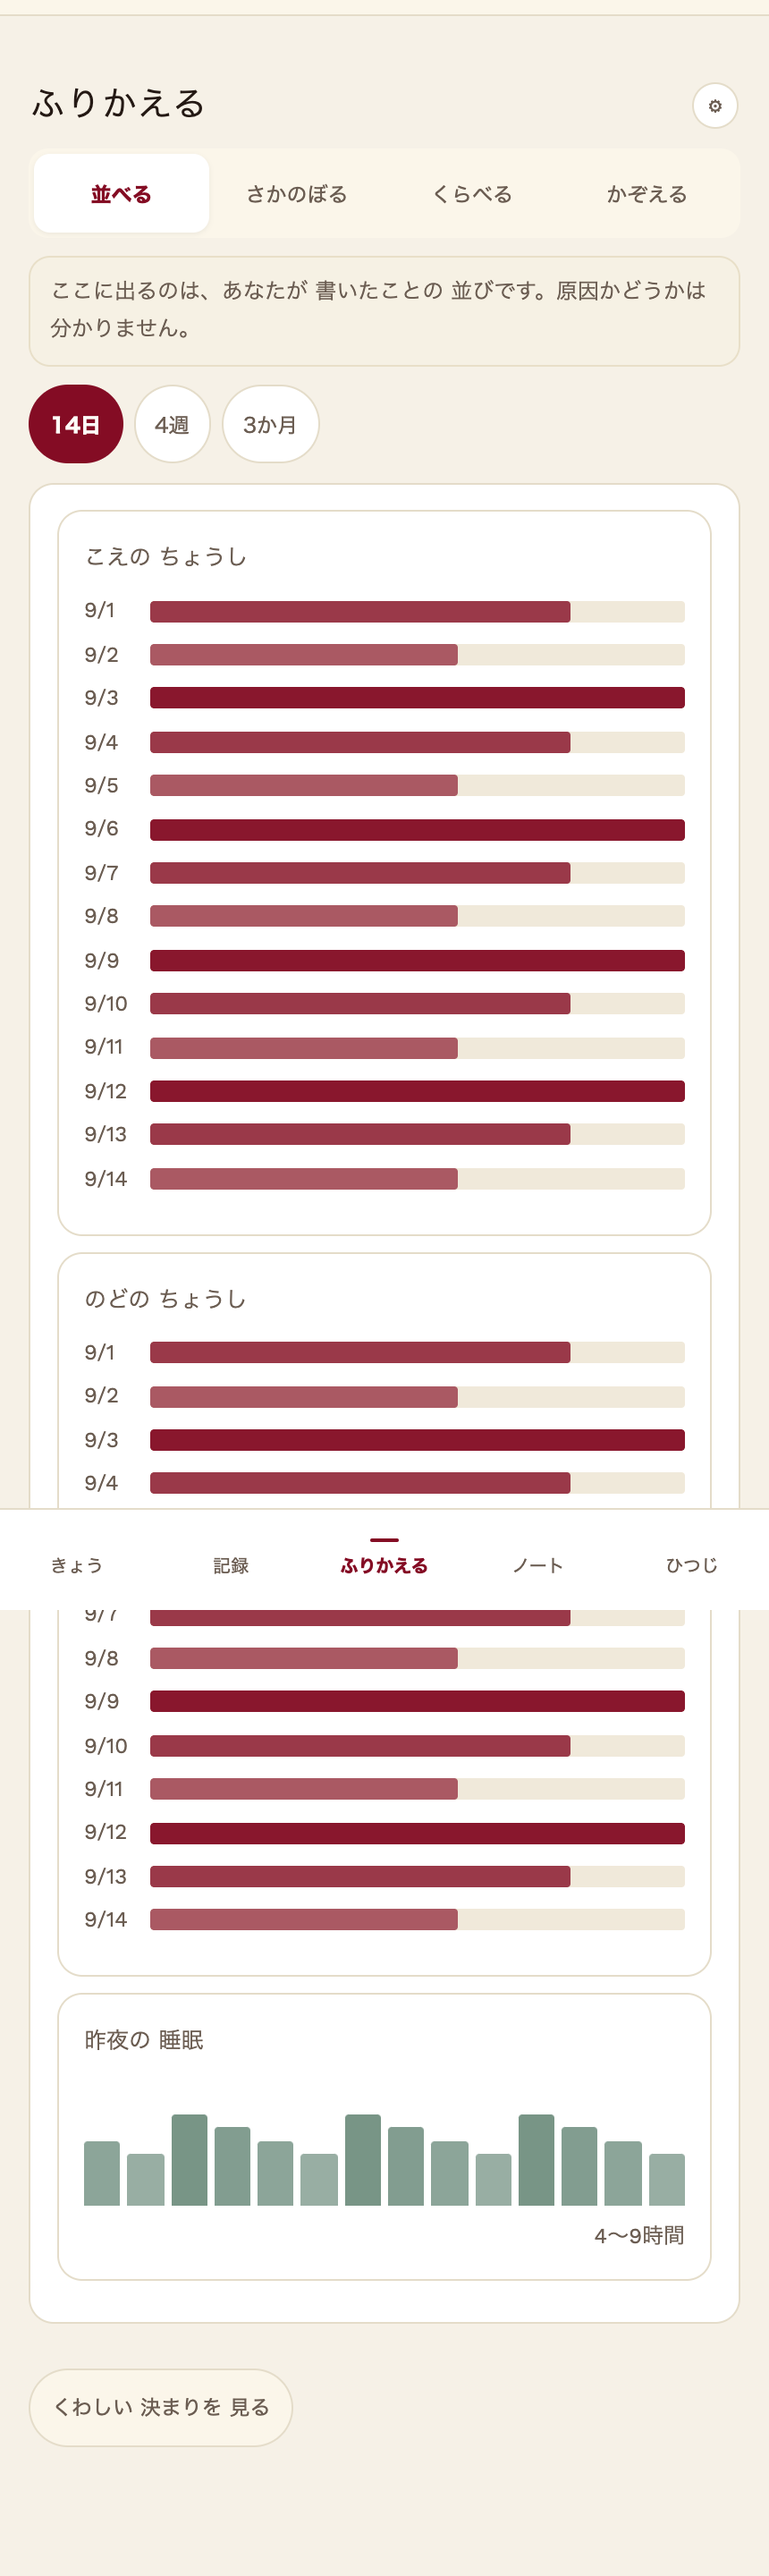
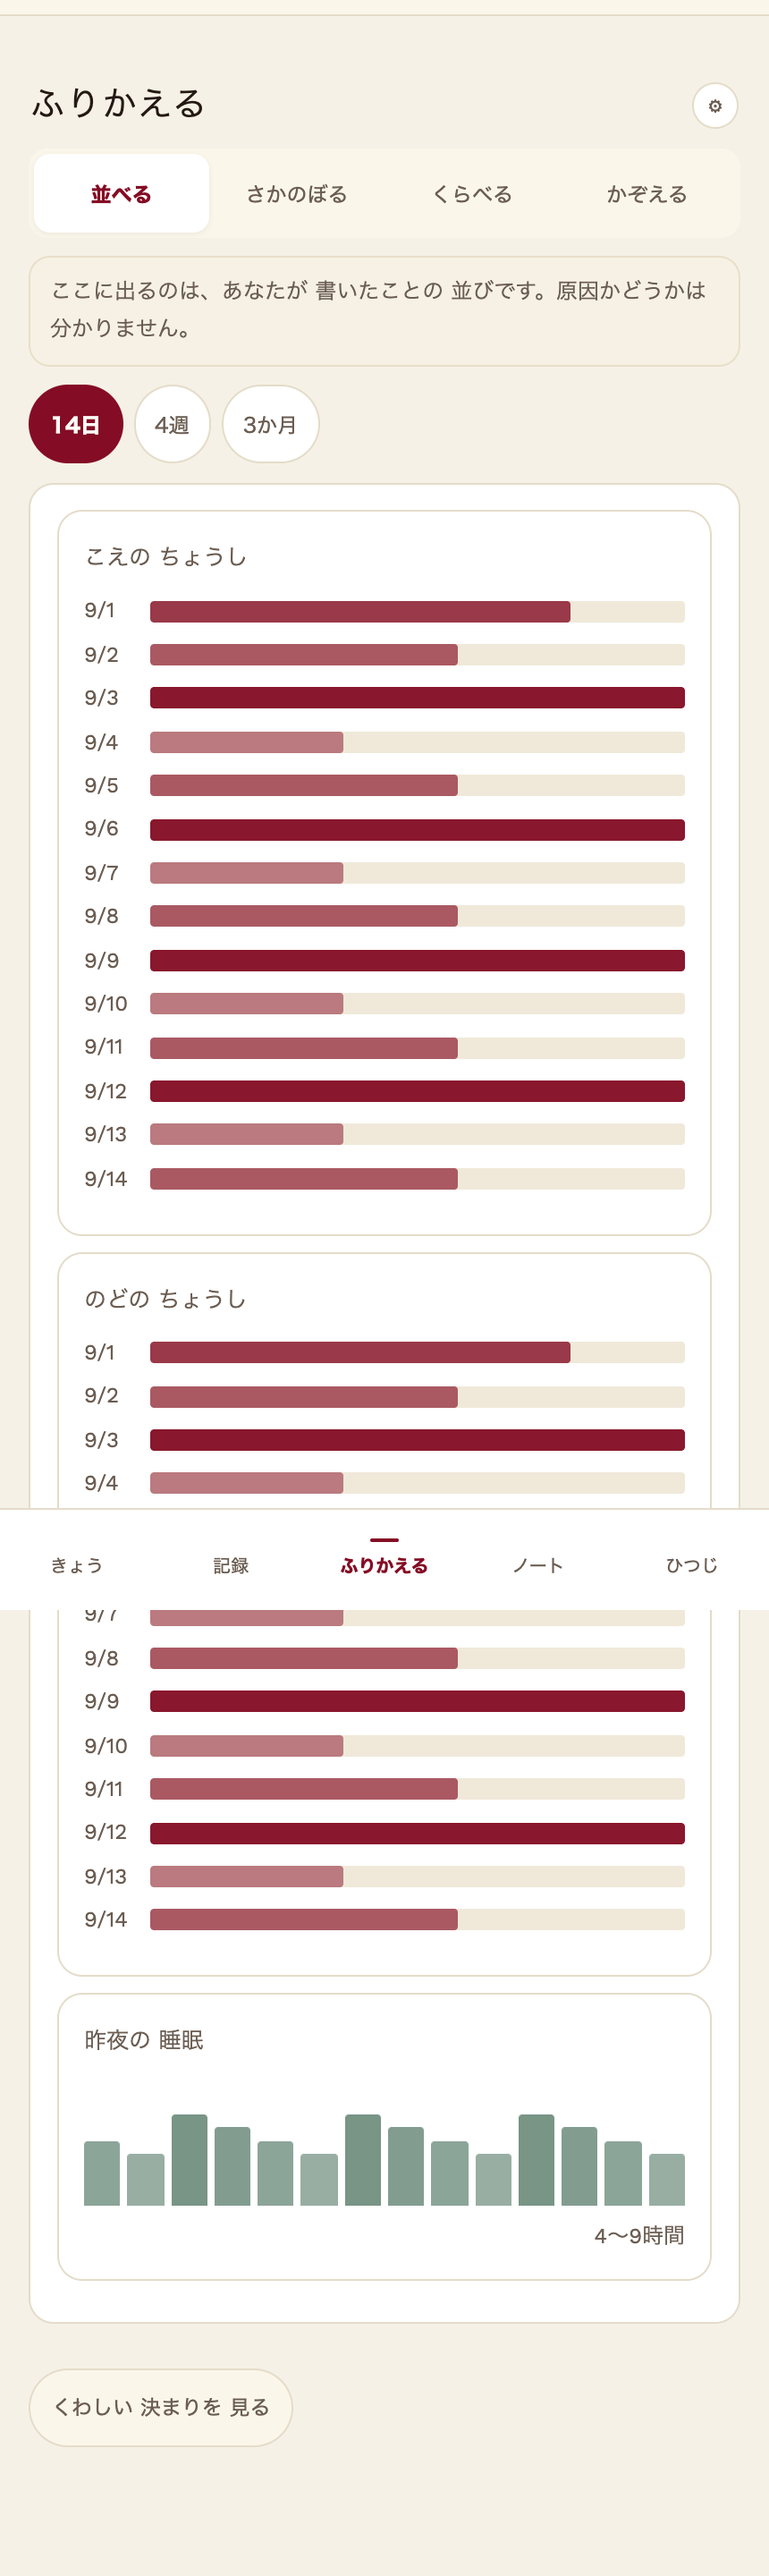
U3 役の 台帳の 列名／U1 先生に 見せる 関数の 棚おろし
★U3 role_master.voice_quality → required_voice_character
・坂本さんが 台帳で 付け替え済み（本番・試し用 とも）
・★実際に 尋ねて 確かめました
  required_voice_character … 200
  voice_quality … 42703（そんな 列は ない）
・はじめ「足す→写す→落とす」の 形で 書いて いました。
  台帳が すでに 付け替え済みだったので、古い 列は 読まず 書かずに 直しました
・3か所（読み1・書き2）
・SQL の 紙は 残しますが、頭に「流さないで ください」と 書きました
  流すと 落としたはずの 古い 列が 生き返ります
・見張り components/tests/role-master-name.test.js

★U1 先生に 見せる 関数（報告のみ・何も 変えて いません）
・★★get_student_entries は 台帳に ありません（PGRST202）
・2026-09-01 に 消した、と コードに 書いて あります
  components/VocalTracker.jsx:1803 ／ lib/shareScope.js:7
・ほかの 人の entries も 0行
・つまり voice_quality を 紙から 消しても 何も 変わりません
・★危ないのは 紙が 残って いる こと。流せば 48列 開きます
  声11／症状3／眠り3／活動13／水2／食事10／からだ2／心3／ひとこと1
  ★voice_quality 1つの 話では ありません
・ご提案 ㋒ … supabase/retired/ へ 移し、DO_NOT_RUN_ の 名前に する
  ＋「entries の 列を 他人に 渡す 関数が 無い こと」の 見張りを 置く
・記録番号 … 名簿のときとは 別の 形です（動いて いない 紙の 片づけ残し）

docs/reports/2026-09-14-U1-先生に見せる関数の棚おろし.md

Claude-Session: https://claude.ai/code/session_01P6Lfc5LxjSbHgGaQUCbdAr

diff --git a/components/tests/role-master-name.test.js b/components/tests/role-master-name.test.js
@@ -1,0 +1,82 @@
+#!/usr/bin/env node
+
+// ============================================================================
+// ★役の 台帳の 列の 名前（★2026-09-14・裁定 その49 CHANGE_2）
+//
+//   ★★`voice_quality` という 名前が、★**2つの 表**に ありました。
+//     ★`entries.voice_quality`　　 … 声の 出来（★5段に 丸めた 数）
+//     ★`role_master.voice_quality` … ★役に 求める 声の 性格（★自由な 字）
+//   ★★同じ 名前で 別の ものです。★数と 字です。
+//
+//   ★★新しい 名前　`required_voice_character`。
+//
+//   ★★付け替え（rename）を しません。
+//     ★★一瞬で 終わりますが、★その 一瞬、★古い 名前で 書く 画面が 動いて います。
+//     ★★「足す → 写す → あとで 落とす」に します。
+//
+//   ★★だから、★いまの 画面は こう なって いなければ なりません ──
+//     ★読む … 新しい 列。★空なら 古い 列
+//     ★書く … **両方**
+// ============================================================================
+
+const fs = require("fs");
+const path = require("path");
+const { readCode } = require("./_source");
+
+let ok = 0;
+let ng = 0;
+const t = (c, l) => { if (c) { console.log("  ✓ " + l); ok++; } else { console.log("  ✗ " + l); ng++; } };
+
+const vt = readCode("components", "VocalTracker.jsx");
+
+// ★★2026-09-14、★坂本さんが 台帳で **付け替え**ました。
+//   ★★私は はじめ「足す → 写す → あとで 落とす」の 形で 書いて いました。
+//   ★★実際に 台帳に 尋ねた ところ、★古い 列は **もう ありません** でした。
+//     ★`role_master.voice_quality` → 42703（そんな 列は ない）
+//   ★★だから、★古い 列を 読んでも 書いても いけません。
+console.log("① 読むとき");
+t(/voiceQuality: row\.required_voice_character \|\| null/.test(vt),
+  "★新しい 列だけを 読む");
+// ★★`entries` の ほうにも `row.voice_quality` が あります（★:1638 :1648 :1829）。
+//   ★★あちらは 声の 出来（★5段）です。★触っては いけません。
+//   ★★2026-09-14、★丸ごと 探して しまい、★あちらに つまずきました。
+//   ★★だから、★役の 台帳を 作って いる ところ **だけ**を 見ます。
+{
+  const i = vt.indexOf('from("role_master")');
+  const seg = vt.slice(Math.max(0, i - 2500), i + 2500);
+  t(!/row\.voice_quality/.test(seg), "★役の 台帳では 古い 列を 読んで いない");
+}
+
+console.log("\n② 書くとき");
+const writes = (vt.match(/required_voice_character: /g) || []).length;
+t(writes === 2, "★新しい 列に 2か所 書いて いる（" + writes + "）");
+t(!/voice_quality: (?:voiceQuality|role\.voiceQuality)/.test(vt),
+  "★古い 列に 書いて いない");
+
+console.log("\n③ 台帳の 紙");
+const sql = path.join(__dirname, "..", "..", "supabase",
+  "migration_role_master_required_voice_character.sql");
+t(fs.existsSync(sql), "★紙が ある");
+if (fs.existsSync(sql)) {
+  const s = fs.readFileSync(sql, "utf8");
+  // ★★紙は 残します。★どう 直したかの 記録です。
+  //   ★★ただし 坂本さんは **付け替え**で 済ませました。
+  //     ★この 紙を いま 流すと、★古い 列が 生き返ります。
+  //     ★★だから、★流さない ことを 紙の 頭に 書いて あります。
+  t(/★★この 紙は 流さないで ください/.test(s), "★流さない、と 書いて ある");
+  t(/comment on column/.test(s), "★何の 列かを 台帳に 書いて いる");
+  // ★★診断を BEGIN/ROLLBACK で 包んで いない こと。
+  //   ★★SQL Editor は 巻き戻しません（★過去に 権限が 残りました）。
+  t(!/\bbegin\b[\s\S]*\brollback\b/i.test(s), "★巻き戻しの 中に 書いて いない");
+}
+
+console.log("\n④ entries の ほうは 触って いない");
+t(/voice_quality: numOrNull\(voiceLegacy/.test(vt),
+  "★entries.voice_quality の 書き込みは そのまま");
+
+console.log("\n★★この 見張りが 見て いない こと");
+console.log("　★字の 並びだけ を 見ます。★台帳に 列が あるかは 見て いません。");
+console.log("　★古い 列を いつ 落とすかは、★別の 紙と 別の お決めです。");
+
+console.log(ng === 0 ? `\n★すべて 通りました（${ok}）` : `\n★${ng} 件 落ちました`);
+process.exit(ng === 0 ? 0 : 1);

diff --git a/components/VocalTracker.jsx b/components/VocalTracker.jsx
@@ -6212,7 +6212,22 @@ export default function VocalTracker({ userId, userEmail, signupAgeAnswer = null
       if (mounted && data) {
         const map = {};
         data.forEach((row) => {
-          map[row.role_name] = { workTitle: row.work_title || "", pitchLowNote: row.pitch_low_note || null, pitchHighNote: row.pitch_high_note || null, voiceQuality: row.voice_quality || null };
+          // ★★役に 求める 声の 性格（★2026-09-14・裁定 その49）。
+          //   ★★`voice_quality` という 名前は、★entries にも あります。
+          //     ★あちらは 声の 出来（★5段の 数）。★ここは 自由な 字です。
+          //     ★★同じ 名前で 別の ものでした。★名前を 移して います。
+          //   ★★新しい 列が 空の 間は、★古い 列を 読みます。
+          //     ★台帳の 紙（migration_role_master_required_voice_character.sql）を
+          //     ★流す 前でも、★画面は 動きます。
+          map[row.role_name] = {
+            workTitle: row.work_title || "",
+            pitchLowNote: row.pitch_low_note || null,
+            pitchHighNote: row.pitch_high_note || null,
+            //   ★★2026-09-14、★坂本さんが 台帳で **付け替え**ました。
+            //     ★本番・試し用 とも、★古い 列は もう ありません。
+            //     ★★だから 古い 列は 読みません。★読むと 42703 に なります。
+            voiceQuality: row.required_voice_character || null
+          };
         });
         setRoleMasterMap(map);
       }
@@ -12436,7 +12451,11 @@ export default function VocalTracker({ userId, userEmail, signupAgeAnswer = null
     const supabase = createClient();
     const { error } = await supabase.from("role_master").upsert({
       user_id: userId, role_name: roleName, work_title: workTitle || "",
-      pitch_low_note: pitchLowNote || null, pitch_high_note: pitchHighNote || null, voice_quality: voiceQuality || null
+      pitch_low_note: pitchLowNote || null, pitch_high_note: pitchHighNote || null,
+      // ★★2026-09-14、★台帳で 付け替えが 済みました。
+      //   ★★古い 列（voice_quality）は もう ありません。
+      //     ★書くと「そんな 列は ない」（42703）で 落ちます。
+      required_voice_character: voiceQuality || null
     }, { onConflict: "user_id,role_name" });
     if (error) {
       console.error("役マスタの登録に失敗しました:", error);
@@ -12592,7 +12611,8 @@ export default function VocalTracker({ userId, userEmail, signupAgeAnswer = null
         await supabase.from("role_master").upsert({
           user_id: userId, role_name: to, work_title: role.workTitle || "",
           pitch_low_note: role.pitchLowNote || null, pitch_high_note: role.pitchHighNote || null,
-          voice_quality: role.voiceQuality || null
+          // ★★古い 列は もう ありません（★上と 同じ わけ）。
+          required_voice_character: role.voiceQuality || null
         }, { onConflict: "user_id,role_name" });
         await supabase.from("role_master").delete().eq("user_id", userId).eq("role_name", from);
       }

diff --git a/docs/reports/2026-09-14-U1-先生に見せる関数の棚おろし.md b/docs/reports/2026-09-14-U1-先生に見せる関数の棚おろし.md
@@ -1,0 +1,108 @@
+# U1 ── 先生に 見せる 関数の 棚おろし
+全108行 / 末尾は「  ★他人の 行が 0行 だった、という 事実だけ です。」
+
+★出どころ 2026-09-14、★裁定 その50 §3 ／ U1（★Opus・坂本さん 承認）
+
+## ★★結論 ── ★**その 関数は、★台帳に ありません**
+
+★★`get_student_entries` を、★実際に 呼んで みました。
+
+```
+POST /rest/v1/rpc/get_student_entries
+{"code":"PGRST202",
+ "details":"Searched for the function public.get_student_entries ...
+   but no matches were found in the schema cache."}
+```
+
+★★**ありません。**
+　★試し用の 企画は、★本番の 写しから 作られて います（★坂本さん）。
+
+## なぜ 無いのか
+
+★★`components/VocalTracker.jsx:1803` に 書いて ありました ──
+
+```
+★先生が生徒の記録の中身を見る仕組みは、2026-09-01 に削除しました。
+  ★常時アクセスそのものをやめる、という判断です（坂本さん・2026-09-01）。
+    共有は、生徒さんが自分で書き出して手渡す形にします。
+  ★教室の役割（オーナー・管理者・担当講師）から健康データへ届く道は、
+    もともと1本もありません。これは変わりません（永久に作らない・Opus 判断）。
+```
+
+★★`lib/shareScope.js:7` にも ──
+　「★`get_student_entries`（SECURITY DEFINER）ごと 消えて います。」
+
+## ★では、★あの 紙は 何か
+
+★★`supabase/migration_teacher_student_entries_rpc.sql` は、
+　★**2026-09-01 より 前の 形**を 書いた 紙です。
+★★流せば 関数が できます。★けれど、★いま 流して いません。
+
+★★だから ──
+- ★`:40` `:82` の `voice_quality` を 消しても、★**何も 変わりません**
+- ★消さなくても、★先生に 見えて いません
+
+## 実際に 確かめた こと（★試し用の 企画）
+
+| 試した こと | 結果 |
+|---|---|
+| `rpc/get_student_entries` を 呼ぶ | **PGRST202（関数が 無い）** |
+| ほかの 人の `entries` を 読む | **0行** |
+| `rpc/get_connected_names` | 404（無い） |
+| `rpc/get_student_records` | 404（無い） |
+| `rpc/get_my_teacher_names` | 200（★これは あります。★名前だけ） |
+
+## ★それでも 危ないのは、★**紙が 残って いる** こと
+
+★★この 紙は、★流せば 動きます。
+★★中には 健康の 列が **48件** 並んで います ──
+
+| 組 | 列 |
+|---|---|
+| 声 | throat_condition, voice_quality, voice_checkins, voice_entries, voice_memo, wake_note, routine_note, resonance_score, pianissimo_high_note, pianissimo_onset_delay, cpps_value |
+| 症状 | throat_symptoms, throat_symptoms_other, morning_edema |
+| 眠り | sleep_hours, sleep_quality, bedtime |
+| 活動 | activity_type, activity_duration, activity_detail, repertoire, performance_quality, recovery, load_detail, exercise_minutes, exercises, exercise_level, speaking_level, non_performance_speech_minutes, longest_speech_block_minutes |
+| 水 | water_intake, water_by_slot |
+| 食事 | meal_notes, meals, carbs_g, protein_g, fat_g, fiber_g, protein_level, calorie_level, dinner_time, dinner_tags |
+| からだ | weight_kg, body_fat_pct |
+| 心 | ease, mental_reason, mental_tags |
+| ひとこと | notes |
+
+★★★どれも `entries` の 列です。★**ぜんぶ 健康の 記録**です。
+　★★`voice_quality` **1つの 話では ありません。**
+
+★★営業資料 p.2／p.3 と 契約書は「先生は 見られない」と 書いて います。
+　★★紙が 1本 残って いる だけで、★**流せば 48列 開きます**。
+
+## ご提案
+
+| 案 | 中身 |
+|---|---|
+| ㋐ | 紙ごと 消す。★git の 履歴には 残ります |
+| ㋑ | 紙の 頭に「★流さないで ください」と 大きく 書く |
+| ㋒ | 紙を `supabase/retired/` に 移し、★名前を `DO_NOT_RUN_…` に する |
+
+★★私の 見立ては **㋒** です。
+　★★消すと、★「なぜ 消えたか」が 分からなく なります。
+　★★残すなら、★誤って 流せない 名前に します。
+
+★★★そして **見張り**を 1本 置く ことを ご提案します ──
+　★「`entries` の 列を 他人に 渡す 関数が、★台帳に 無い こと」。
+　★★いま 無い ことは 確かめました。★次に 誰かが 足しても 気づけます。
+
+## ★記録番号に ついて
+
+★★名簿の 書き出しの ときと **同じ 形では ありません**。
+　★あれは「動いて いる 道が 開いて いた」でした。
+　★これは「動いて いない 紙が 残って いる」です。
+★★不具合では なく、★**片づけ残し**と 見ます。
+　★★それでも、★9月15日に 書類を 渡す 日には 片づけて おく べきです。
+
+## この 調べが 見て いない こと
+
+- 本番の 台帳には、★私は 尋ねられません。
+  ★試し用の 企画（★本番の 写し）で 確かめました。
+  ★★本番でも 同じ 問い（`rpc/get_student_entries`）を お試しください。
+- `entries` の 決まり（RLS）そのものは 読んで いません。
+  ★他人の 行が 0行 だった、という 事実だけ です。
